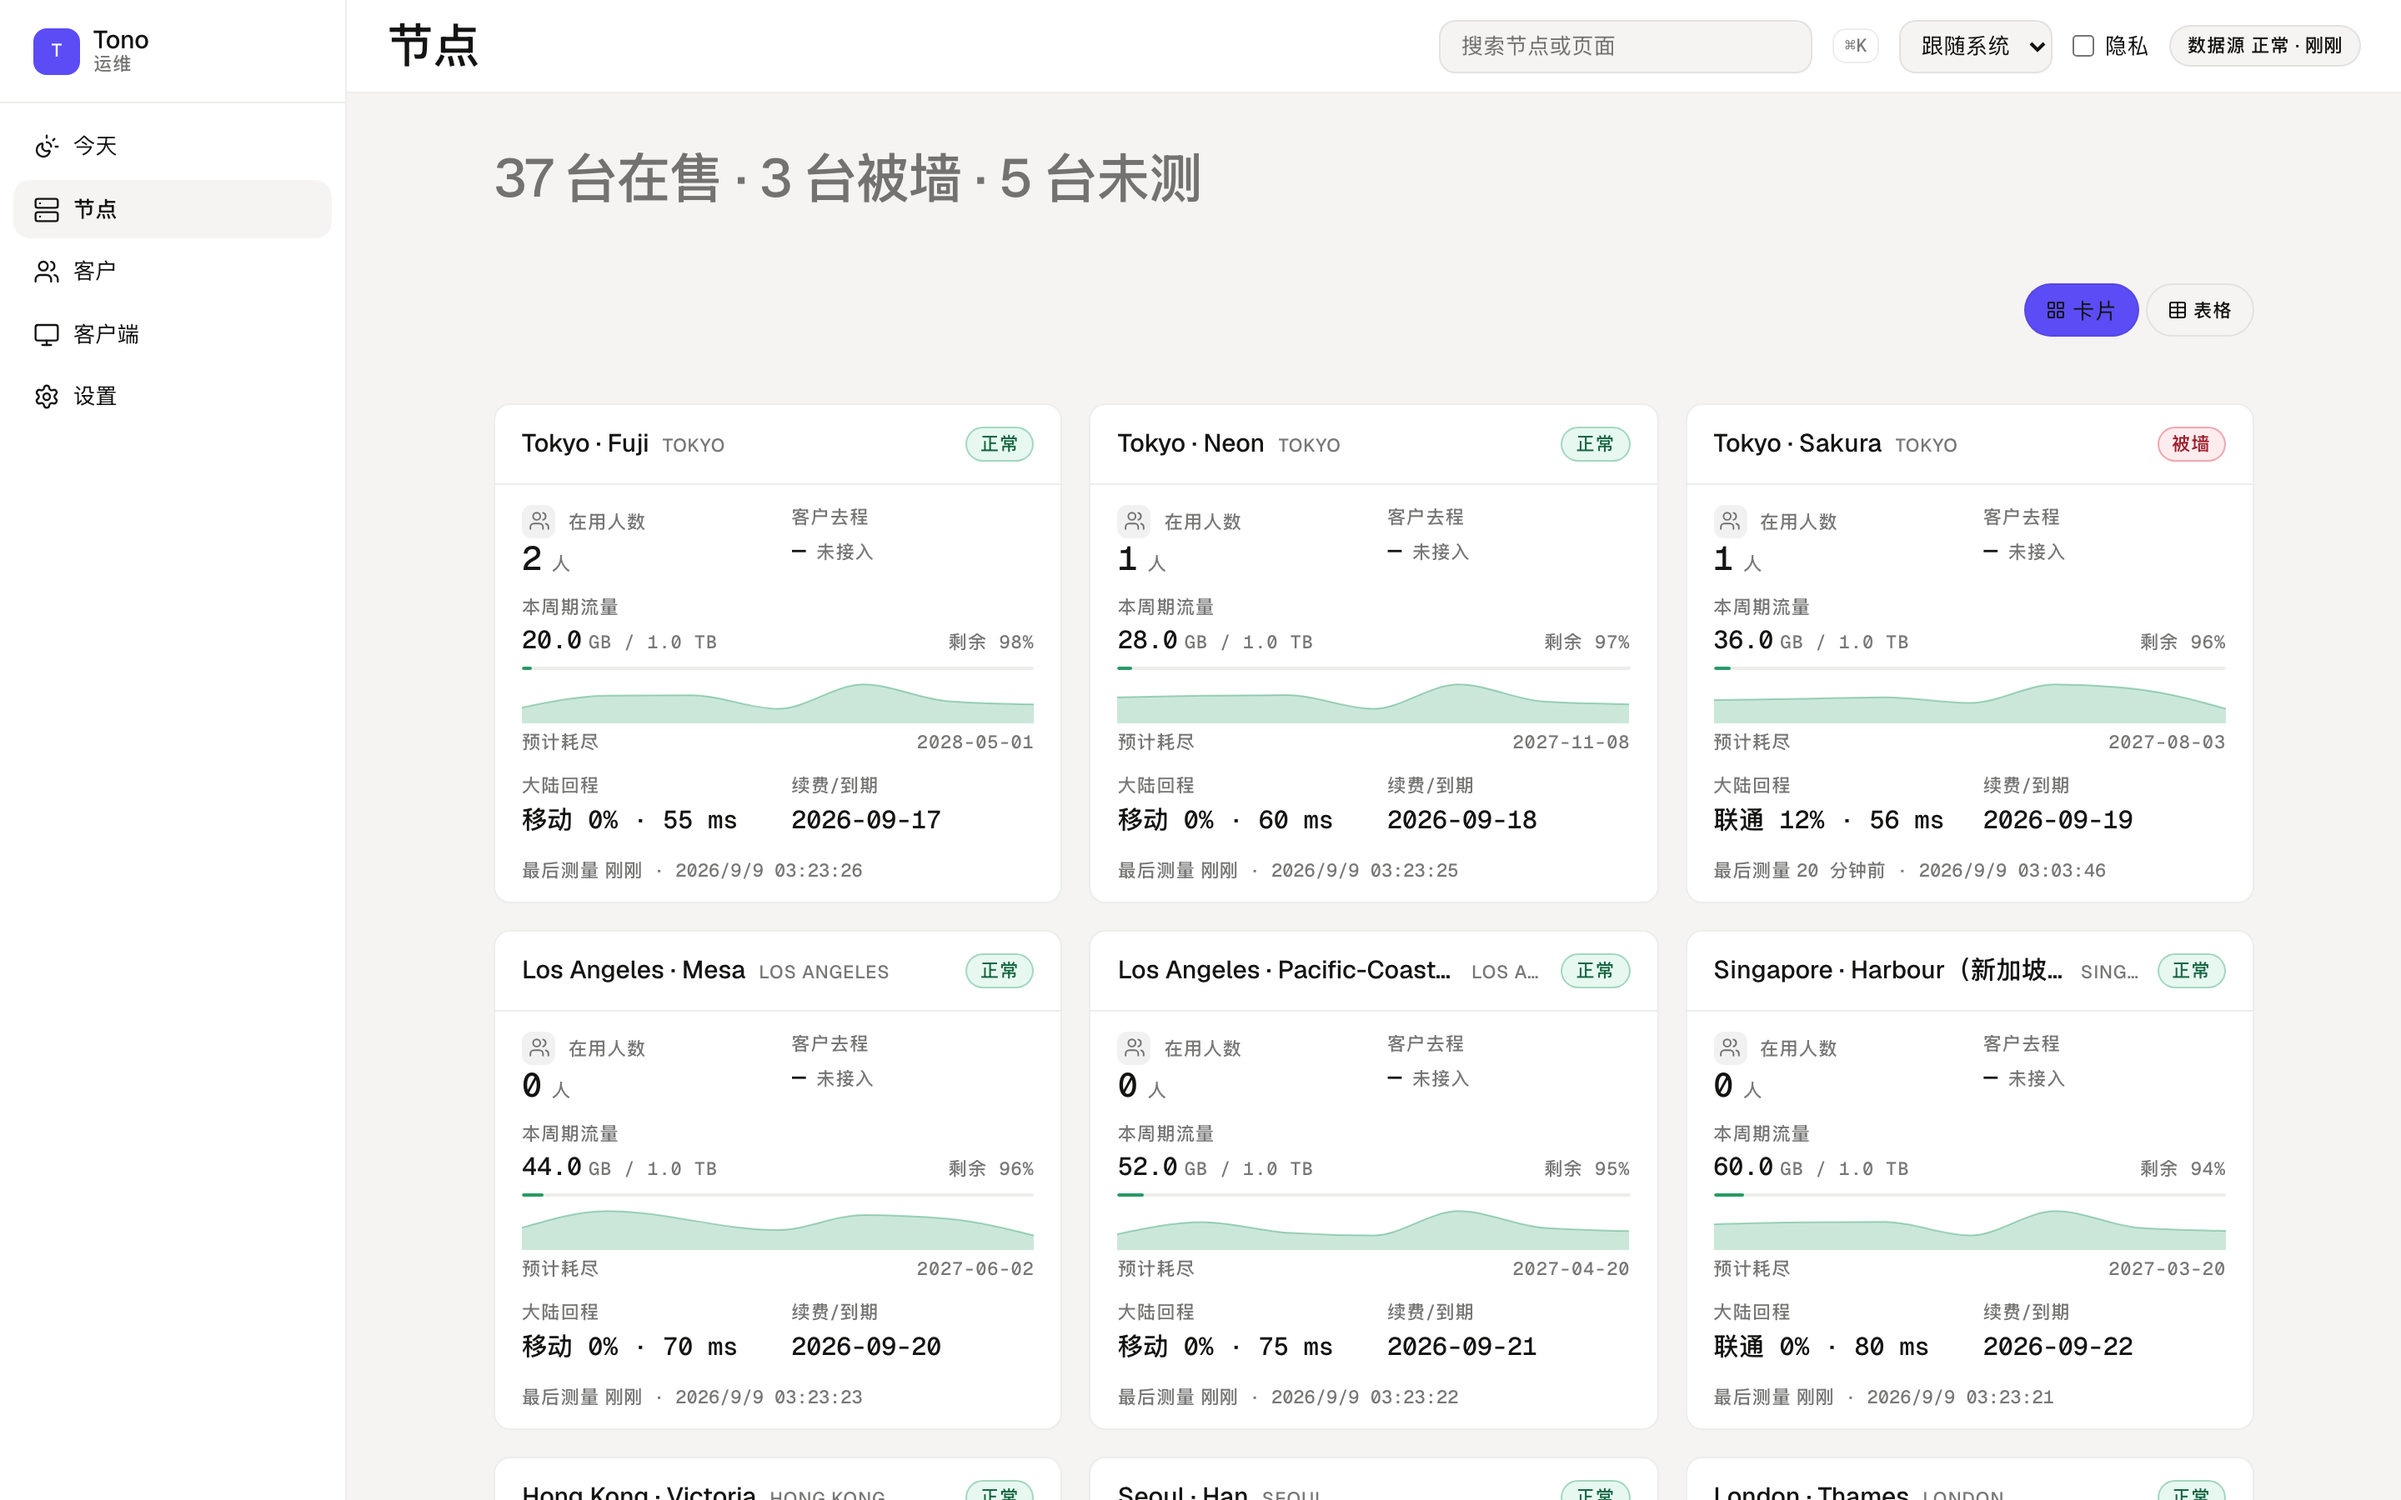
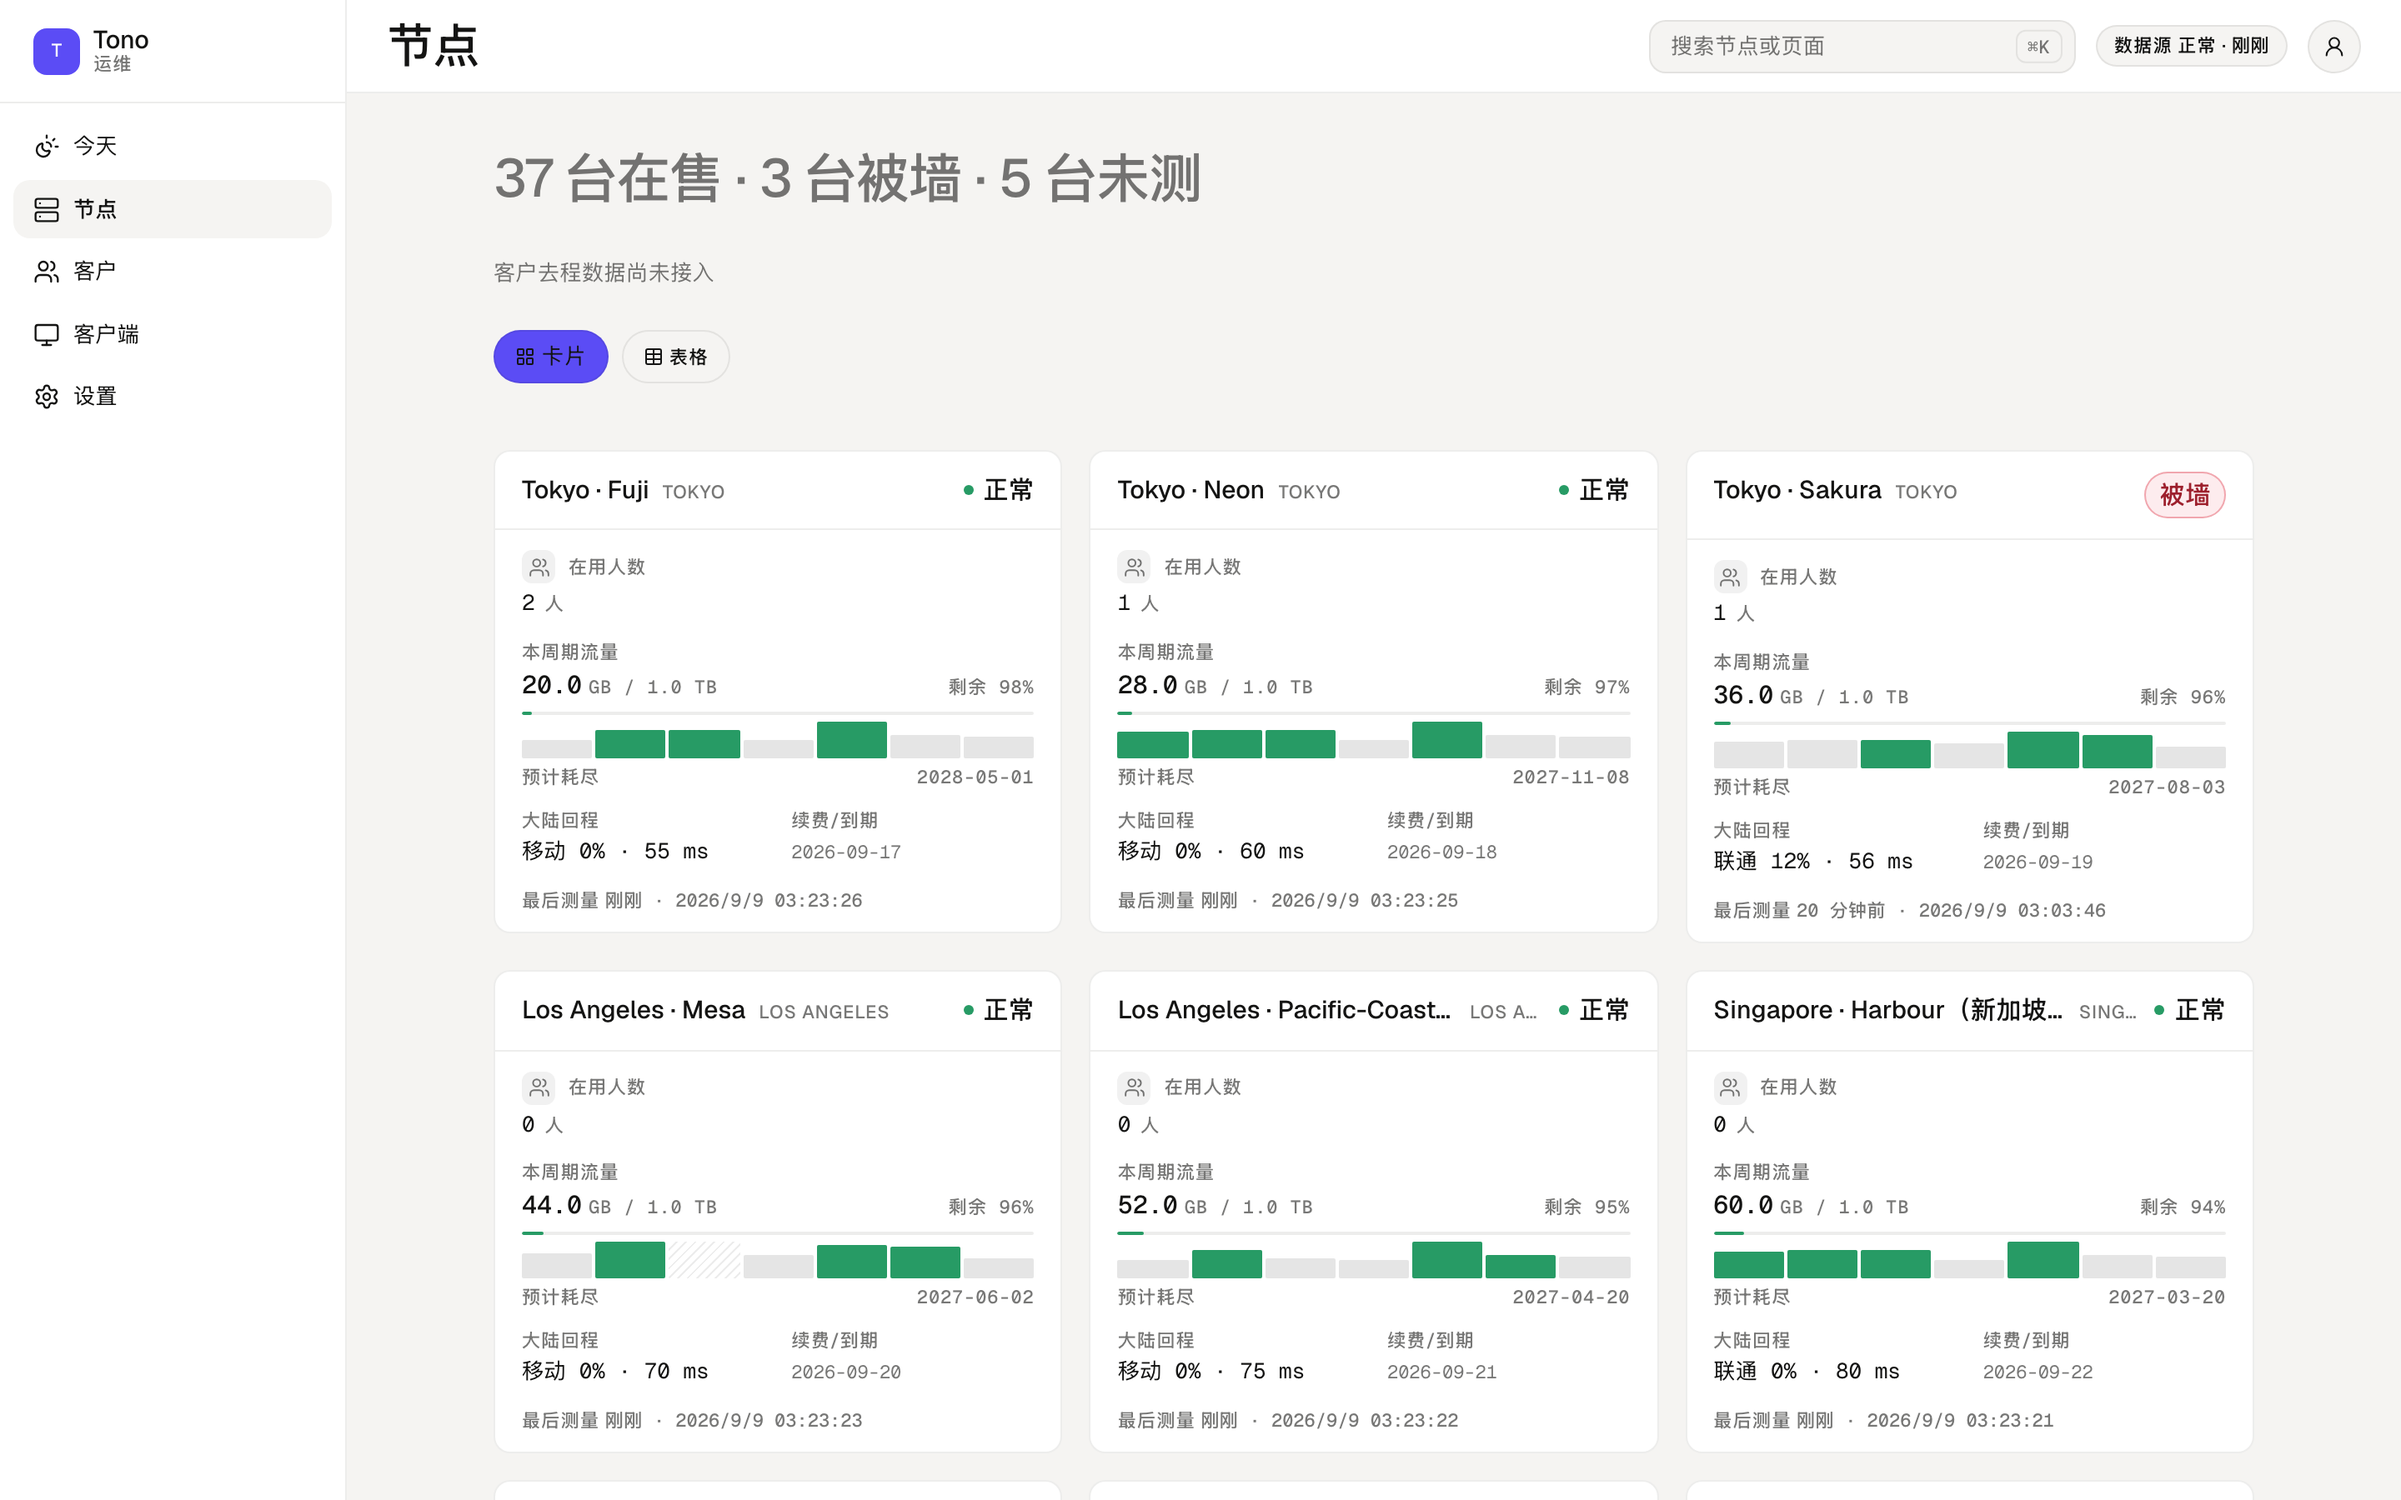
feat(ops-console): seven days as seven bars, not a silhouette
The smooth area read as a mood rather than as measurements: with a padded
Y domain the same week of near-identical days could look like a hill or a
wall depending on the spread, and nothing on it said which day was which.

Bars are countable. One per day, a 2 px gap, height from zero so the shape
cannot flatter the data, the days above the week's mean in the surrounding
tone and the rest grey — the strip answers "which days were heavy" instead
of colouring the whole week. A day nobody measured is hatched rather than
drawn at zero, the same way an unmeasured hour is on the activity strip.

Every bar carries its date and its bytes in a title, which is R7 for a
shape that otherwise has no numbers on it at all; `MetricSeries` gains the
`lastDaySec` the dates are counted back from.

Recharts is no longer imported anywhere.

Claude-Session: https://claude.ai/code/session_01MxNERtbNADnXgvBi3tgsbA

diff --git a/services/ops-console/src/components/ops/Sparkline.tsx b/services/ops-console/src/components/ops/Sparkline.tsx
@@ -1,50 +1,76 @@
-import { Area, AreaChart, ResponsiveContainer, YAxis } from 'recharts';
+import { copy } from '@/copy/copy';
+import { formatBytesMeasured, formatDate } from '@/lib/display';
 import { cn } from '@/lib/utils';
 import type { MetricSeries } from './measured';
 
+const DAY = 86_400;
+const DAYS = 7;
+
 /**
- * A trend, not a chart: no axes, no grid, no legend, one colour taken from the
- * surrounding tone at 40% (`--tone-wash`). Absent or single-point series
- * render nothing at all rather than an empty frame — a flat placeholder line
- * would read as "measured and flat", which is the lie R2 exists to prevent.
+ * Seven days, seven bars.
+ *
+ * The smooth area this replaces was a silhouette: it read as a mood rather
+ * than as measurements, and with a padded Y domain the same week of near
+ * identical days could look like a hill or like a wall depending on the
+ * spread. Bars are countable. One per day, a 2 px gap between them, and the
+ * days above the week's mean carry the surrounding tone while the rest stay
+ * grey — so the shape answers "which days were heavy" instead of colouring
+ * the whole week.
+ *
+ * A gap in the measurement is hatched rather than drawn at zero, the same way
+ * an unmeasured hour is on the activity strip: a missing day and a quiet day
+ * are different facts (R2).
+ *
+ * Every bar carries its own date and value on hover, which is R7 for a shape
+ * that otherwise has no numbers on it at all.
  */
 export function Sparkline({
   series,
-  height = 28,
+  height = 22,
+  format = formatBytesMeasured,
   className,
 }: {
   series?: MetricSeries | null;
   height?: number;
+  /** Most series here are daily bytes; a counter would pass its own words. */
+  format?: (value: number | null) => string;
   className?: string;
 }) {
-  const points = (series?.points ?? []).map((v, i) => ({ i, v }));
-  const known = points.map((p) => p.v).filter((v): v is number => v !== null && v !== undefined);
+  const points = (series?.points ?? []).slice(-DAYS);
+  const known = points.filter((v): v is number => typeof v === 'number');
   if (known.length < 2) return null;
 
-  // A domain of [0, max] turns a week of similar days into a filled block. The
-  // padded domain below keeps the silhouette readable without pretending the
-  // baseline is zero — this is a shape, not a chart to read values off.
-  const low = Math.min(...known);
-  const high = Math.max(...known);
-  const spread = high - low || Math.abs(high) || 1;
+  const max = Math.max(...known);
+  const mean = known.reduce((sum, v) => sum + v, 0) / known.length;
+  const source = series?.source ?? '';
+  const lastDay = series?.lastDaySec ?? null;
 
   return (
-    <div className={cn('w-full', className)} style={{ height }} aria-hidden data-spark="">
-      <ResponsiveContainer width="100%" height="100%">
-        <AreaChart data={points} margin={{ top: 1, right: 0, left: 0, bottom: 0 }}>
-          <YAxis hide domain={[low - spread * 0.6, high + spread * 0.25]} />
-          <Area
-            type="monotone"
-            dataKey="v"
-            stroke="var(--tone-wash)"
-            fill="var(--tone-wash)"
-            strokeWidth={1}
-            dot={false}
-            isAnimationActive={false}
-            connectNulls
+    <div className={cn('spark', className)} style={{ height }} data-spark="">
+      {points.map((value, index) => {
+        const day = lastDay === null ? null : lastDay - (points.length - 1 - index) * DAY;
+        const when = day === null ? '' : `${formatDate(day)} `;
+        if (value === null) {
+          return (
+            <div
+              key={index}
+              className="spark-bar"
+              data-gap="true"
+              style={{ height: '100%' }}
+              title={`${when}${copy.missing} ${source}`}
+            />
+          );
+        }
+        return (
+          <div
+            key={index}
+            className="spark-bar"
+            data-high={value > mean ? 'true' : 'false'}
+            style={{ height: `${max <= 0 ? 2 : Math.max(2, (value / max) * 100)}%` }}
+            title={`${when}${format(value)}`}
           />
-        </AreaChart>
-      </ResponsiveContainer>
+        );
+      })}
     </div>
   );
 }

diff --git a/services/ops-console/src/styles/globals.css b/services/ops-console/src/styles/globals.css
@@ -335,6 +335,27 @@ button.ops-chip:hover:not(:disabled) { transform: translateY(-1px); border-color
   background: hsl(var(--tone-line));
 }
 
+/* Seven days of daily bytes. A bar above the week's mean carries whatever tone
+   the surrounding block is in (the quota tone, on a node card); the rest stay
+   grey, so the shape says which days were heavy rather than colouring the
+   whole week. An unmeasured day is hatched, never drawn at zero. */
+.spark {
+  display: flex;
+  align-items: flex-end;
+  gap: 2px;
+  width: 100%;
+}
+.spark-bar {
+  flex: 1 1 0;
+  min-width: 1px;
+  border-radius: 1px;
+  background: color-mix(in srgb, var(--foreground) 11%, transparent);
+}
+.spark-bar[data-high="true"] { background: hsl(var(--tone-line)); }
+.spark-bar[data-gap="true"] {
+  background: repeating-linear-gradient(135deg, transparent 0 3px, var(--hairline) 3px 4px);
+}
+
 /* 使用时段. Greys for 在线, the one accent for 已连接; `--heat` is the share of
    the hour, so an empty cell is genuinely empty rather than pale green. */
 .heat-cell {

diff --git a/services/ops-console/e2e/ops.ts b/services/ops-console/e2e/ops.ts
@@ -25,11 +25,11 @@ export async function open(
 
 /**
  * Wait for the things that would otherwise make a baseline flake: webfonts
- * swapping in, and Recharts laying out its areas after first paint.
+ * swapping in, and the day bars taking their height from the layout.
  */
 export async function settle(page: Page): Promise<void> {
   await page.evaluate(() => document.fonts.ready.then(() => undefined));
-  const sparks = page.locator('[data-spark] svg path');
+  const sparks = page.locator('[data-spark] .spark-bar');
   if (await sparks.count() > 0) await sparks.first().waitFor({ state: 'attached' });
   await page.evaluate(() => new Promise((done) => requestAnimationFrame(() => requestAnimationFrame(done))));
 }

diff --git a/services/ops-console/src/pages/node-metrics.ts b/services/ops-console/src/pages/node-metrics.ts
@@ -73,7 +73,11 @@ function fact(value: string | null | undefined, source: string): Measured<string
 function trafficSeries(node: FleetNodeDto): MetricSeries | null {
   const daily = node.profile?.trafficDailyBytes;
   if (!daily || daily.length < 2) return null;
-  return { points: daily.slice(-7), source: copy.sources.profile };
+  return {
+    points: daily.slice(-7),
+    source: copy.sources.profile,
+    lastDaySec: node.profile?.updatedAt ?? node.agentObservedAt ?? null,
+  };
 }
 
 function collectPorts(node: FleetNodeDto): number[] {

diff --git a/services/ops-console/src/components/ops/measured.ts b/services/ops-console/src/components/ops/measured.ts
@@ -23,4 +23,10 @@ export function isPresent<T>(row: Measured<T | null>): row is Measured<T> {
 export type MetricSeries = {
   points: Array<number | null>;
   source: string;
+  /**
+   * The day the last point covers; every earlier point steps back one day.
+   * Without it a bar can say how much but not when, and "20 GB" on an
+   * unnamed day is the kind of number this console exists to stop printing.
+   */
+  lastDaySec?: number | null;
 };
